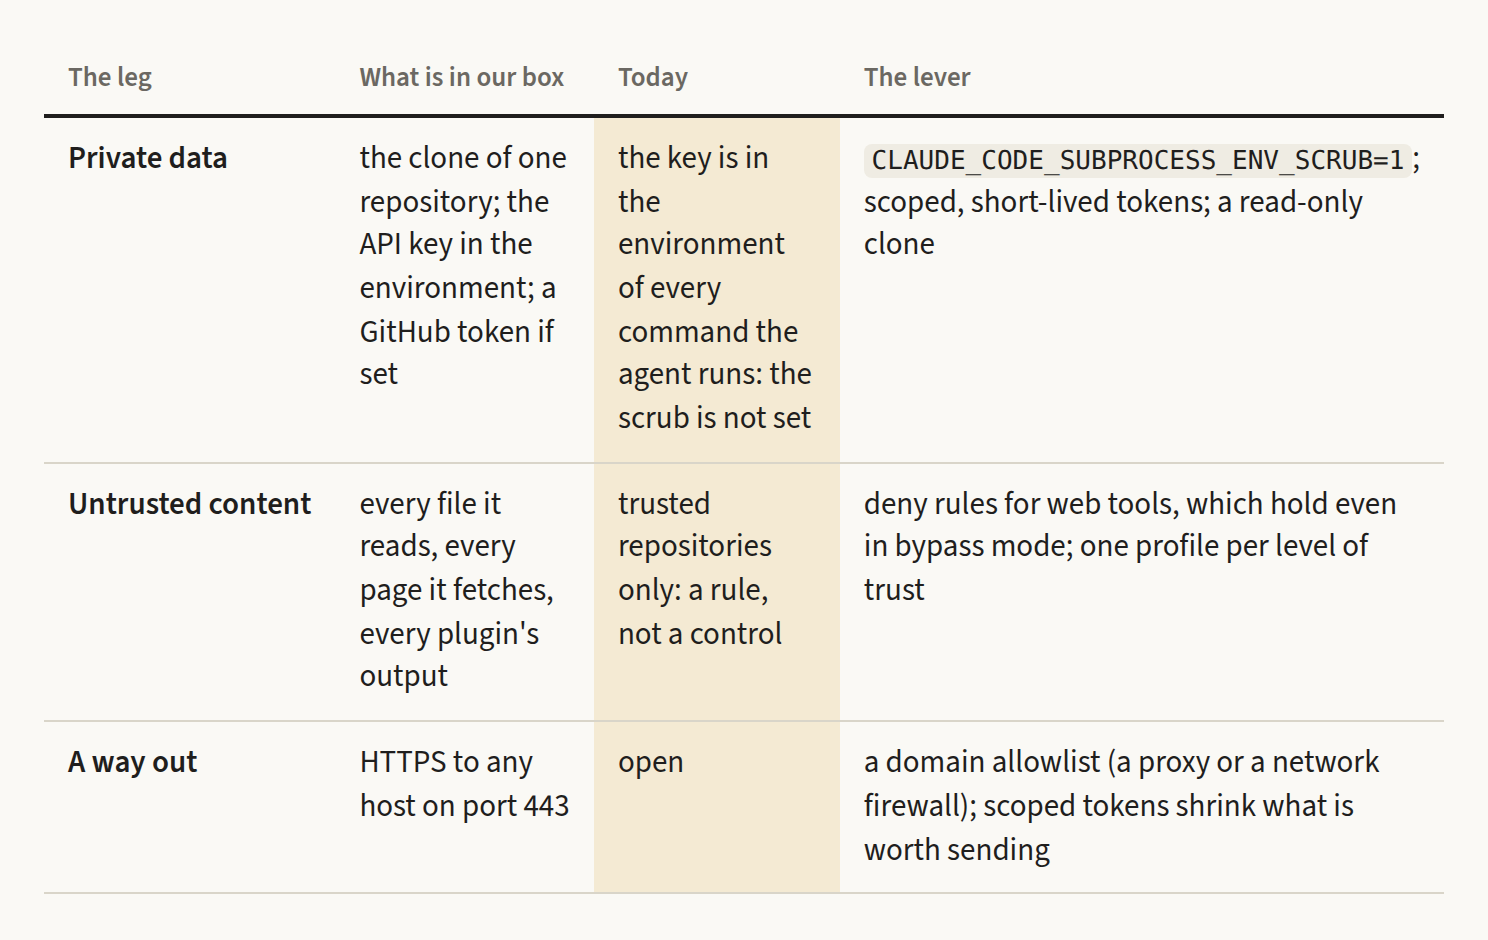
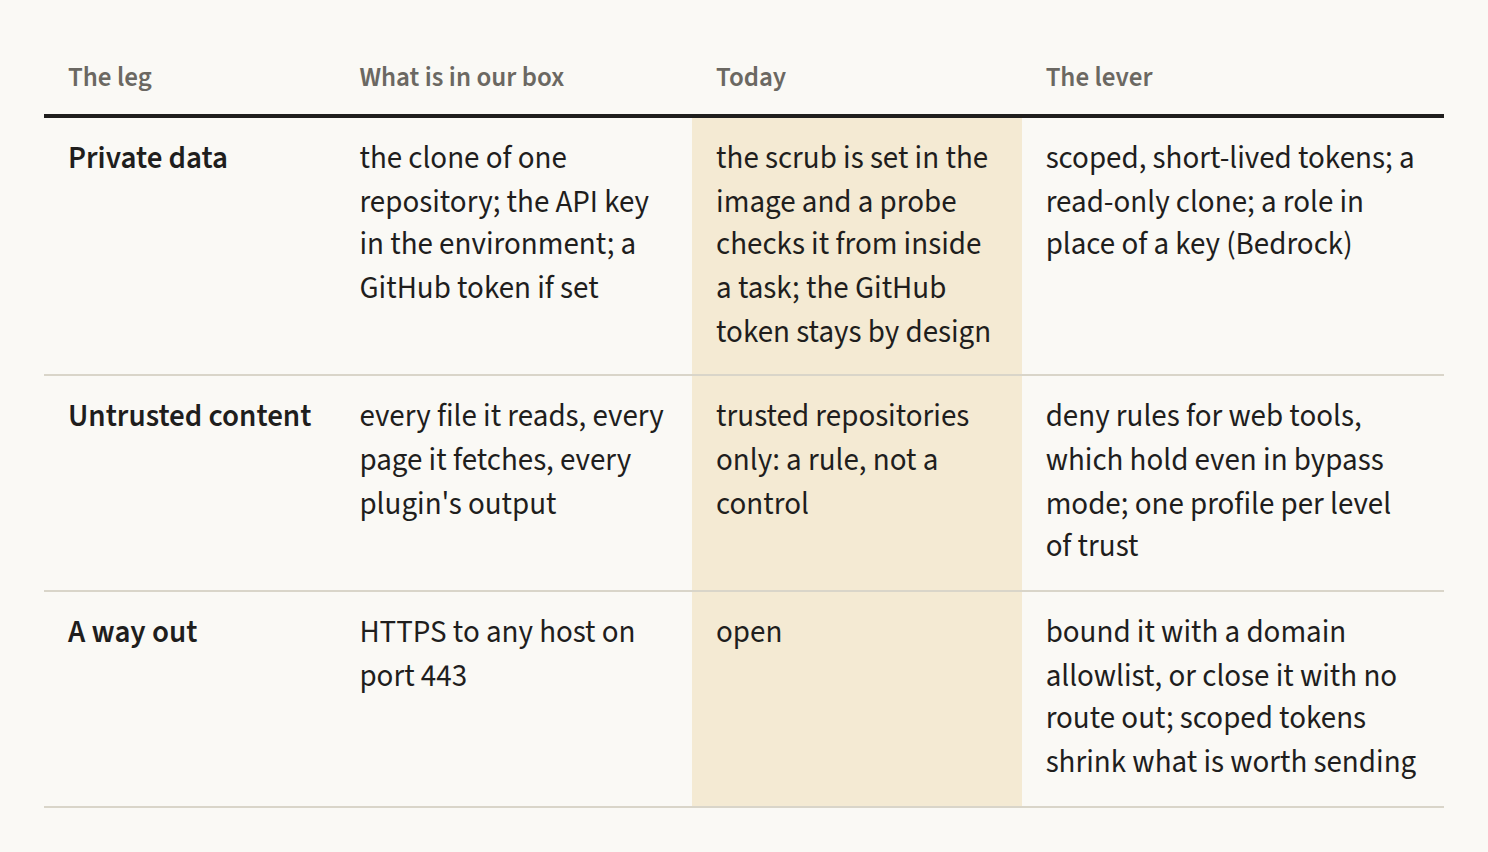
docs(articles): sandbox article - the scrub, a probe for it, and closed vs bounded egress
- the key leak is now: the scrub is set in the image (claude-docker-ecs PR 26) and
  two probe commands check it from inside a task; the result is a marked
  placeholder until the AWS run has been read
- the way out: bounded (private subnets plus a domain allowlist) or closed (no
  route out, VPC endpoints, Claude through Bedrock over PrivateLink), with the
  trade-offs, a new figure and four new sources
- figures b1, b3, b4 updated; b5 (three ways out) added

Claude-Session: https://claude.ai/code/session_01EmG14EyCxmBJhJ5PsEeZFk

diff --git a/articles/the-box-is-only-half-the-boundary.md b/articles/the-box-is-only-half-the-boundary.md
@@ -1,6 +1,6 @@
 # The Box Is Only Half the Boundary
 
-*What sixteen disposable Claude Code runs taught us about sandboxing coding agents, and three things our own sandbox still doesn't stop.*
+*What sixteen disposable Claude Code runs taught us about sandboxing coding agents, and the three leaks we found in our own.*
 
 ![A figure made of glowing sand presses its hand against the glass wall of a shipping crate labelled "Sand Genius", "High value intellectual asset" and "Export only", on a dock at sunset. A panel on the crate reads "A brilliant mind shouldn't stay confined."](images/header-sand-genius-in-a-crate.jpg)
 *Sand Genius, crated for shipping. AI-generated illustration.*
@@ -11,7 +11,7 @@ The crate in the picture carries the objection every team hears the first time i
 
 It is a fair point. An agent that has to ask before every `rm`, every `curl` and every `pip install` is not much of an agent, so teams switch the permission prompts off. Then comes the question that matters: with the prompts gone, what is left between the agent and everything else?
 
-We switched ours off too. The image in **[claude-docker-public](https://github.com/fibtecltd/claude-docker-public)** runs Claude Code with `bypassPermissions`, headless, on AWS Fargate. This post is about what makes that defensible, what we measured to check it, and the three things the box still doesn't stop. Anthropic's own documentation is blunt about the problem underneath: bypass mode "offers no protection against prompt injection or unintended actions." A sandbox can't fix that. It can only decide how far the damage reaches.
+We switched ours off too. The image in **[claude-docker-public](https://github.com/fibtecltd/claude-docker-public)** runs Claude Code with `bypassPermissions`, headless, on AWS Fargate. This post is about what makes that defensible, what we measured to check it, and the three leaks we found in it. Anthropic's own documentation is blunt about the problem underneath: bypass mode "offers no protection against prompt injection or unintended actions." A sandbox can't fix that. It can only decide how far the damage reaches.
 
 ## Three questions every agent sandbox answers
 
@@ -53,20 +53,39 @@ The next two are the honest news. HTTPS to the open internet returns 200. Plain 
 
 The fifth is a lesson in what a cap is. We set a USD 0.05 budget and the run stopped, correctly, with `error_max_budget_usd`, at USD 0.068. A cap ends the run after the turn that crosses it, not to the cent, so treat it as a ceiling with slack. A cold one-word run on Sonnet 5.5 already costs more than the cap we used for the test (USD 0.0955 for the first call, USD 0.0077 for each later one, because the first call pays to write the prompt cache), so set caps above the starting context, or they will stop even a trivial task.
 
-All sixteen runs behaved as designed. That is a statement about the design. It is not a statement about safety.
+All sixteen runs behaved as designed. That is a statement about the design. It is not a statement about safety. Notice, too, what the five probes do not ask: whether a command the agent runs can read the API key. We added that question after the sixteen runs, and it is the first leak below.
 
 What disposability costs: about 32 seconds to a running container (30 to 36 across the sixteen runs, roughly 13 of provisioning and 15 of image pull, with no warm start), so a one-word task takes about a minute from command to exit. For an agent that works for twenty minutes, that is noise. For a quick check, it is the whole job. One sample each, one account, one region: read these as orders of magnitude.
 
-## What the box doesn't stop
+## Three leaks in our own box
 
-**1. The key is in the box.** The API key arrives from Secrets Manager as an environment variable, and with permission prompts off, nothing stops a command the agent runs from reading it. Claude Code has an opt-in setting, `CLAUDE_CODE_SUBPROCESS_ENV_SCRUB=1`, that removes credentials from the environment of the commands it starts (and, on Linux, runs Bash in its own PID namespace so it cannot read the parent's environment through `/proc`). It deliberately leaves `GITHUB_TOKEN` in place so that `gh` keeps working. We do not set it in the image today. Anthropic's dev-container page states the general case plainly: with permissions bypassed, a container does not prevent "exfiltrating anything accessible inside the container, including the Claude Code credentials stored in `~/.claude`."
+**1. The key is in the box.** The API key arrives from Secrets Manager as an environment variable, and with permission prompts off, every command the agent runs inherits it. Anthropic's dev-container page states the general case plainly: with permissions bypassed, a container does not prevent "exfiltrating anything accessible inside the container, including the Claude Code credentials stored in `~/.claude`."
+
+Claude Code has an opt-in for exactly this, `CLAUDE_CODE_SUBPROCESS_ENV_SCRUB=1`. It removes credentials from the environment of the commands Claude Code starts, and on Linux it runs Bash in its own PID namespace, so a command cannot read the parent's environment through `/proc` either. The Claude Code process keeps the key, because it needs it to call the API. The scrub recognises a credential by the name of the variable or the shape of its value, and Anthropic's advice is to use it as one layer. It deliberately leaves `GITHUB_TOKEN` and `GH_TOKEN` in place so that `gh` keeps working, which means those two need scoping.
+
+We had not set it. We have now, in the image, and instead of trusting the setting we added the question to the harness: two more commands in the same guardrail run. One prints `key-hidden` or `key-VISIBLE` depending on whether the key is in the command's own environment. The other counts the `/proc/*/environ` files the command can read that contain the key's name. Neither prints the key, and both build their output at run time, so an agent that quotes the command in its answer cannot pass the check by accident.
+
+**[TO FILL IN from the AWS run (claude-docker-ecs PR 26): the same six commands on the old image and on the new one; key hidden, /proc count, whether `sts` still shows the task role, whether Bash still works. Remove this paragraph once filled in.]**
+
+The scrub does not change one thing: the agent itself still holds the key. A command cannot read it, but a hijacked session can still spend it through the agent's own model calls, so the cap, not the scrub, limits that.
 
 **2. Anywhere on 443.** Simon Willison's "lethal trifecta" is an agent that has private data, reads untrusted content and can communicate outward. Our box has all three. The private data is the clone and the keys. The untrusted content is every file the agent reads and every page it fetches. The way out is port 443, to anywhere. Anthropic recommends bypass mode "in isolated environments like containers, VMs, or dev containers without internet access"; ours has internet access, because the agent has to reach the model.
 
 ![The three legs of the lethal trifecta against our box: private data (the clone and the keys), untrusted content (every file it reads), and a way out (HTTPS to anywhere), each with what we do today and the lever that would narrow it.](images/b3-the-trifecta-ledger.png)
 *The three legs, what we do about each today, and the lever that would narrow it.*
 
-How small could the allowlist be? In Anthropic's network requirements, a headless run authenticated with an API key needs `api.anthropic.com`. The sign-in hosts are for OAuth, and the telemetry hosts are optional (`CLAUDE_CODE_DISABLE_NONESSENTIAL_TRAFFIC` turns them off). Add `github.com` for our clone and whatever a task installs, and that is two or three hostnames. A security group cannot express a hostname, so the options are a forward proxy (Claude Code honours `HTTPS_PROXY`), a network firewall with domain rules, or DNS-level filtering, which a connection to a bare IP address walks around. None is free. And a short list is not a closed channel: if `github.com` is on it and the token can push, a repository is a place to put data. An allowlist narrows the way out. Scoped tokens narrow what is worth sending.
+You can bound the way out or close it. The choice is made in the network, not in the container.
+
+**Bounded.** Put the tasks in private subnets and send their outbound traffic through something that understands hostnames. AWS Network Firewall can hold a domain allowlist: for HTTPS it reads the hostname from the TLS SNI field, for HTTP from the Host header, and it drops every request for a domain not on the list. A forward proxy does the same job, and Claude Code honours `HTTPS_PROXY`. The list can be short: per Anthropic's network requirements, a headless run with an API key needs `api.anthropic.com` (the sign-in hosts are for OAuth, and the telemetry hosts are optional). Add `github.com` for the clone and whatever a task installs, and that is two or three names. Two warnings. `egress=nat`, the mode our stack already has, filters nothing on its own: a NAT gateway translates addresses, it does not read names. And a short list is not a closed channel. If `github.com` is on it and the token can push, a repository is a place to put data. DNS-level filtering is weaker still, because a connection to a bare IP address never asks DNS.
+
+**Closed.** No route out at all: private subnets with no internet gateway and no NAT. Everything the task needs then has to be inside the VPC. AWS's ECS guide lists the interface endpoints a Fargate task needs when it has no internet route (ECR for the image, CloudWatch Logs for the logs, Secrets Manager for secrets), and the image layers come through an S3 gateway endpoint. The model has to be inside too. Claude Code can run against Amazon Bedrock, which offers a `bedrock-runtime` interface endpoint over PrivateLink. On Bedrock, Claude Code uses the default AWS credential chain, ECS task credentials included, so the API key goes away and the task role is allowed `bedrock:InvokeModel` on the models you pick.
+
+That swap trades a secret for a role, and it is not free: our own `sts` probe showed that a command in the box can sign requests as the task role. A role is scoped and short-lived, which beats a long-lived key, but a hijacked session can still use it. The rest of the bill: no `git clone` from GitHub (bake the code into the image, or fetch it from S3), no `pip install` or web fetch unless you mirror what you need, no WebSearch tool (not available on Bedrock), a model that must be enabled in your account and region, and interface endpoints billed by the hour per Availability Zone, plus per GB. And closed means closed to the internet, not to AWS: an S3 endpoint will talk to any bucket unless its endpoint policy says otherwise.
+
+![Three ways out: open, bounded and closed, compared on the route out, what can leave, what you add to the VPC, what stops working, where the model is and what credential it uses.](images/b5-three-ways-out.png)
+*Open is what we run today. The other two are changes to the network, not to the image.*
+
+Which one? Closed if the job fits it: a task that works on code already in the image and talks only to the model. Bounded if the agent has to reach the outside, and then with the allowlist written down and the token scoped to one repository. An allowlist narrows the way out. Scoped tokens narrow what is worth sending.
 
 **3. The prompt and the output are data at rest.** The prompt, the repository name and any `--env` values are part of the run request, so they are visible to anyone who can call `ecs:DescribeTasks` and they appear in CloudTrail. Everything the container prints goes to CloudWatch for 30 days. A workload under a zero-retention rule needs different plumbing: pass a pointer (a path, an object key), not the data, and write results to a store with its own expiry.
 
@@ -85,8 +104,8 @@ Our local `docker compose` route is a plain container on your machine, which sha
 2. **No host mounts you would not hand a stranger.** No `~/.ssh`, no cloud credential files, no Docker socket.
 3. **An empty cloud role.** Add permissions per task, never per image.
 4. **Scoped, short-lived tokens**, for one repository.
-5. **Put the key out of the shell's reach** (the scrub above), or keep it out of the box with a gateway that holds it.
-6. **Decide egress on purpose.** Default-deny if you can. If you cannot, write down what can leave.
+5. **Put the key out of the shell's reach** (the scrub above), or out of the box: a gateway that holds it, or a role in place of a key.
+6. **Decide egress on purpose.** Closed if the job fits, bounded if it does not, and written down if you can do neither.
 7. **A cap on every run**, above the context floor, treated as a ceiling with slack.
 8. **Probe the box from the inside, in CI, on every build.** A guardrail you do not test is a rumour.
 
@@ -99,7 +118,7 @@ scripts/deploy/ecs-in-docker.sh deploy
 scripts/deploy/ecs-in-docker.sh runs
 ```
 
-You need Docker and AWS credentials, not the AWS CLI. The first command builds and smoke-tests the image, checks the account, deploys the stack and pushes the image; the second runs the probes above and prints a report. The runbook, with every timing and cost, is in **[claude-docker-public](https://github.com/fibtecltd/claude-docker-public)**. `SECURITY.md` lists the known limitations, and this post adds to the list on purpose. If you find another leak, open an issue, or write to the address in `SECURITY.md` if it is a vulnerability.
+You need Docker and AWS credentials, not the AWS CLI. The first command builds and smoke-tests the image, checks the account, deploys the stack and pushes the image; the second runs the probes above, the two scrub probes included, and prints a report. The runbook, with every timing and cost, is in **[claude-docker-public](https://github.com/fibtecltd/claude-docker-public)**. `SECURITY.md` lists the known limitations, and this post adds to the list on purpose. If you find another leak, open an issue, or write to the address in `SECURITY.md` if it is a vulnerability.
 
 ## Sources
 
@@ -111,8 +130,9 @@ The measurements are ours: sixteen runs on one AWS account in one region, one sa
 - [Choose a sandbox environment](https://code.claude.com/docs/en/sandbox-environments): the comparison of the sandboxed Bash tool, the sandbox runtime, dev containers, custom containers, VMs and cloud sessions; the custom-container checklist quoted above.
 - [Development containers](https://code.claude.com/docs/en/devcontainer): the warning about exfiltration with permissions bypassed, and the example default-deny firewall.
 - [Configure the sandboxed Bash tool](https://code.claude.com/docs/en/sandboxing): how the Bash sandbox isolates commands, and what it does not cover.
-- [Environment variables](https://code.claude.com/docs/en/env-vars): `CLAUDE_CODE_SUBPROCESS_ENV_SCRUB` and `CLAUDE_CODE_DISABLE_NONESSENTIAL_TRAFFIC`.
+- [Environment variables](https://code.claude.com/docs/en/env-vars): `CLAUDE_CODE_SUBPROCESS_ENV_SCRUB` (what it removes and what it leaves: GitHub tokens, proxy variables, the PID namespace) and `CLAUDE_CODE_DISABLE_NONESSENTIAL_TRAFFIC`.
 - [Enterprise network configuration](https://code.claude.com/docs/en/network-config): the hosts Claude Code needs to reach, and `HTTPS_PROXY`.
+- [Claude Code on Amazon Bedrock](https://code.claude.com/docs/en/amazon-bedrock): the default AWS credential chain with ECS task credentials, the IAM actions it needs, and that WebSearch is not available there.
 
 **Threat models**
 
@@ -122,6 +142,9 @@ The measurements are ours: sixteen runs on one AWS account in one region, one sa
 **AWS**
 
 - [Firecracker: lightweight virtualization for serverless computing](https://aws.amazon.com/about-aws/whats-new/2018/11/firecracker-lightweight-virtualization-for-serverless-computing), AWS, 26 November 2018: Fargate tasks execute on Firecracker microVMs.
+- [RulesSourceList](https://docs.aws.amazon.com/network-firewall/latest/APIReference/API_RulesSourceList.html), AWS Network Firewall API reference: domain allowlists, matched on the TLS SNI field for HTTPS and the Host header for HTTP.
+- [Amazon ECS interface VPC endpoints](https://docs.aws.amazon.com/AmazonECS/latest/developerguide/vpc-endpoints.html): the endpoints a Fargate task needs to pull from ECR, read Secrets Manager and write logs without an internet route.
+- [Use interface VPC endpoints (AWS PrivateLink) with Amazon Bedrock](https://docs.aws.amazon.com/bedrock/latest/userguide/vpc-interface-endpoints.html): the `bedrock-runtime` endpoint.
 
 **This project**
 
